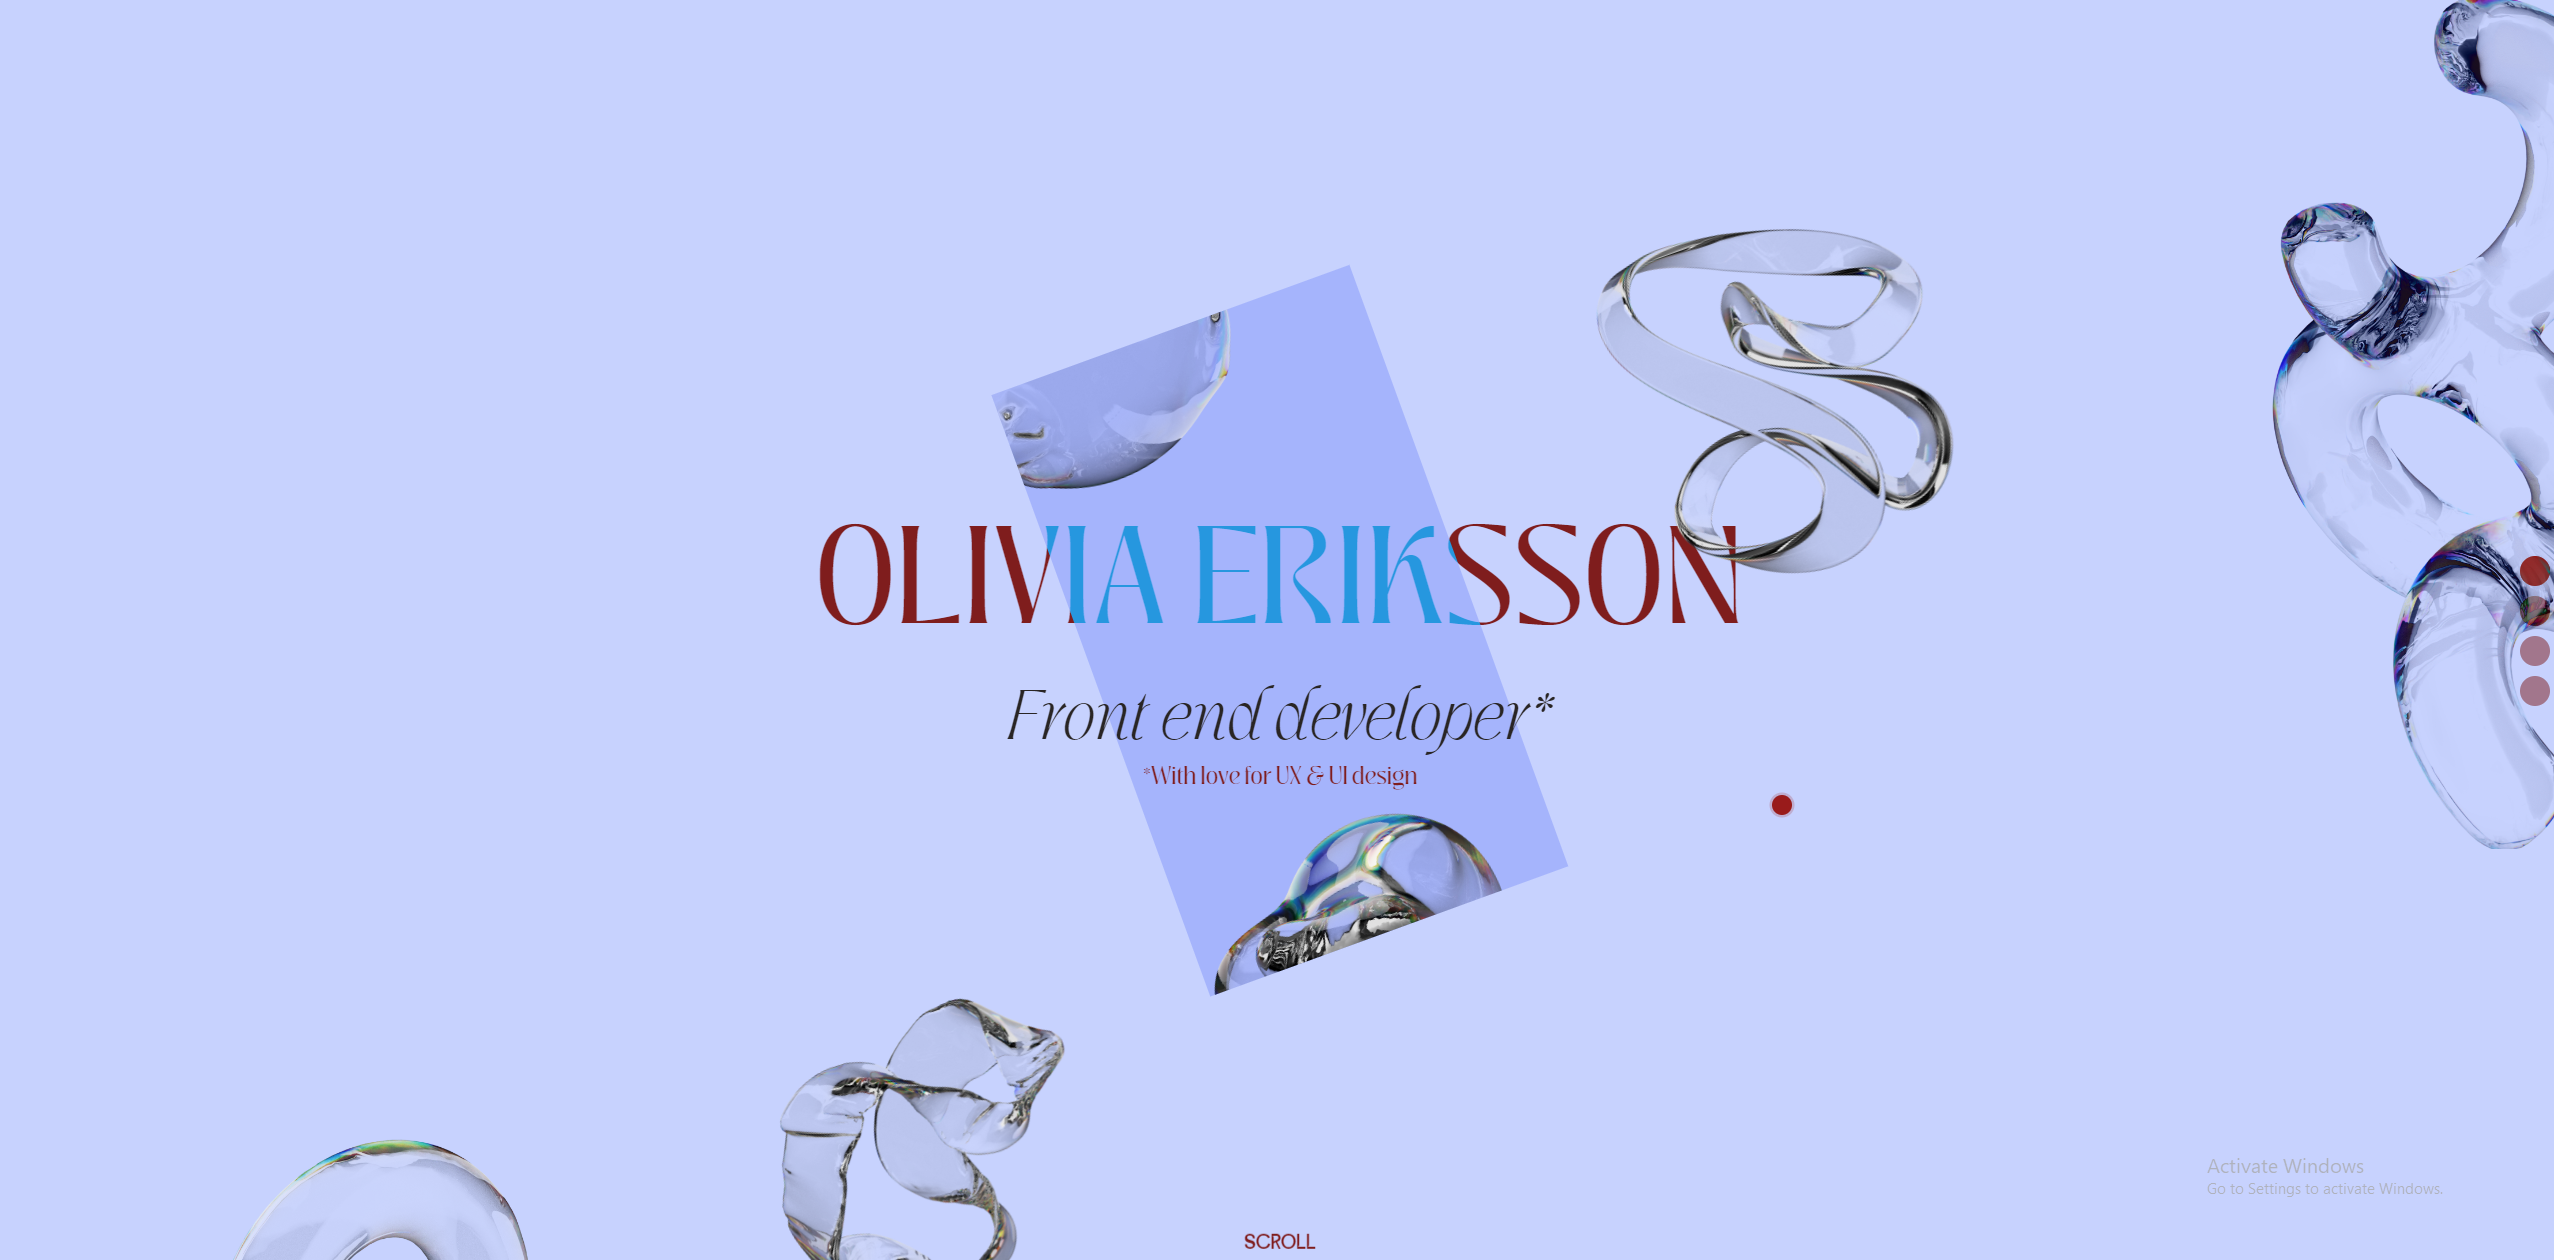
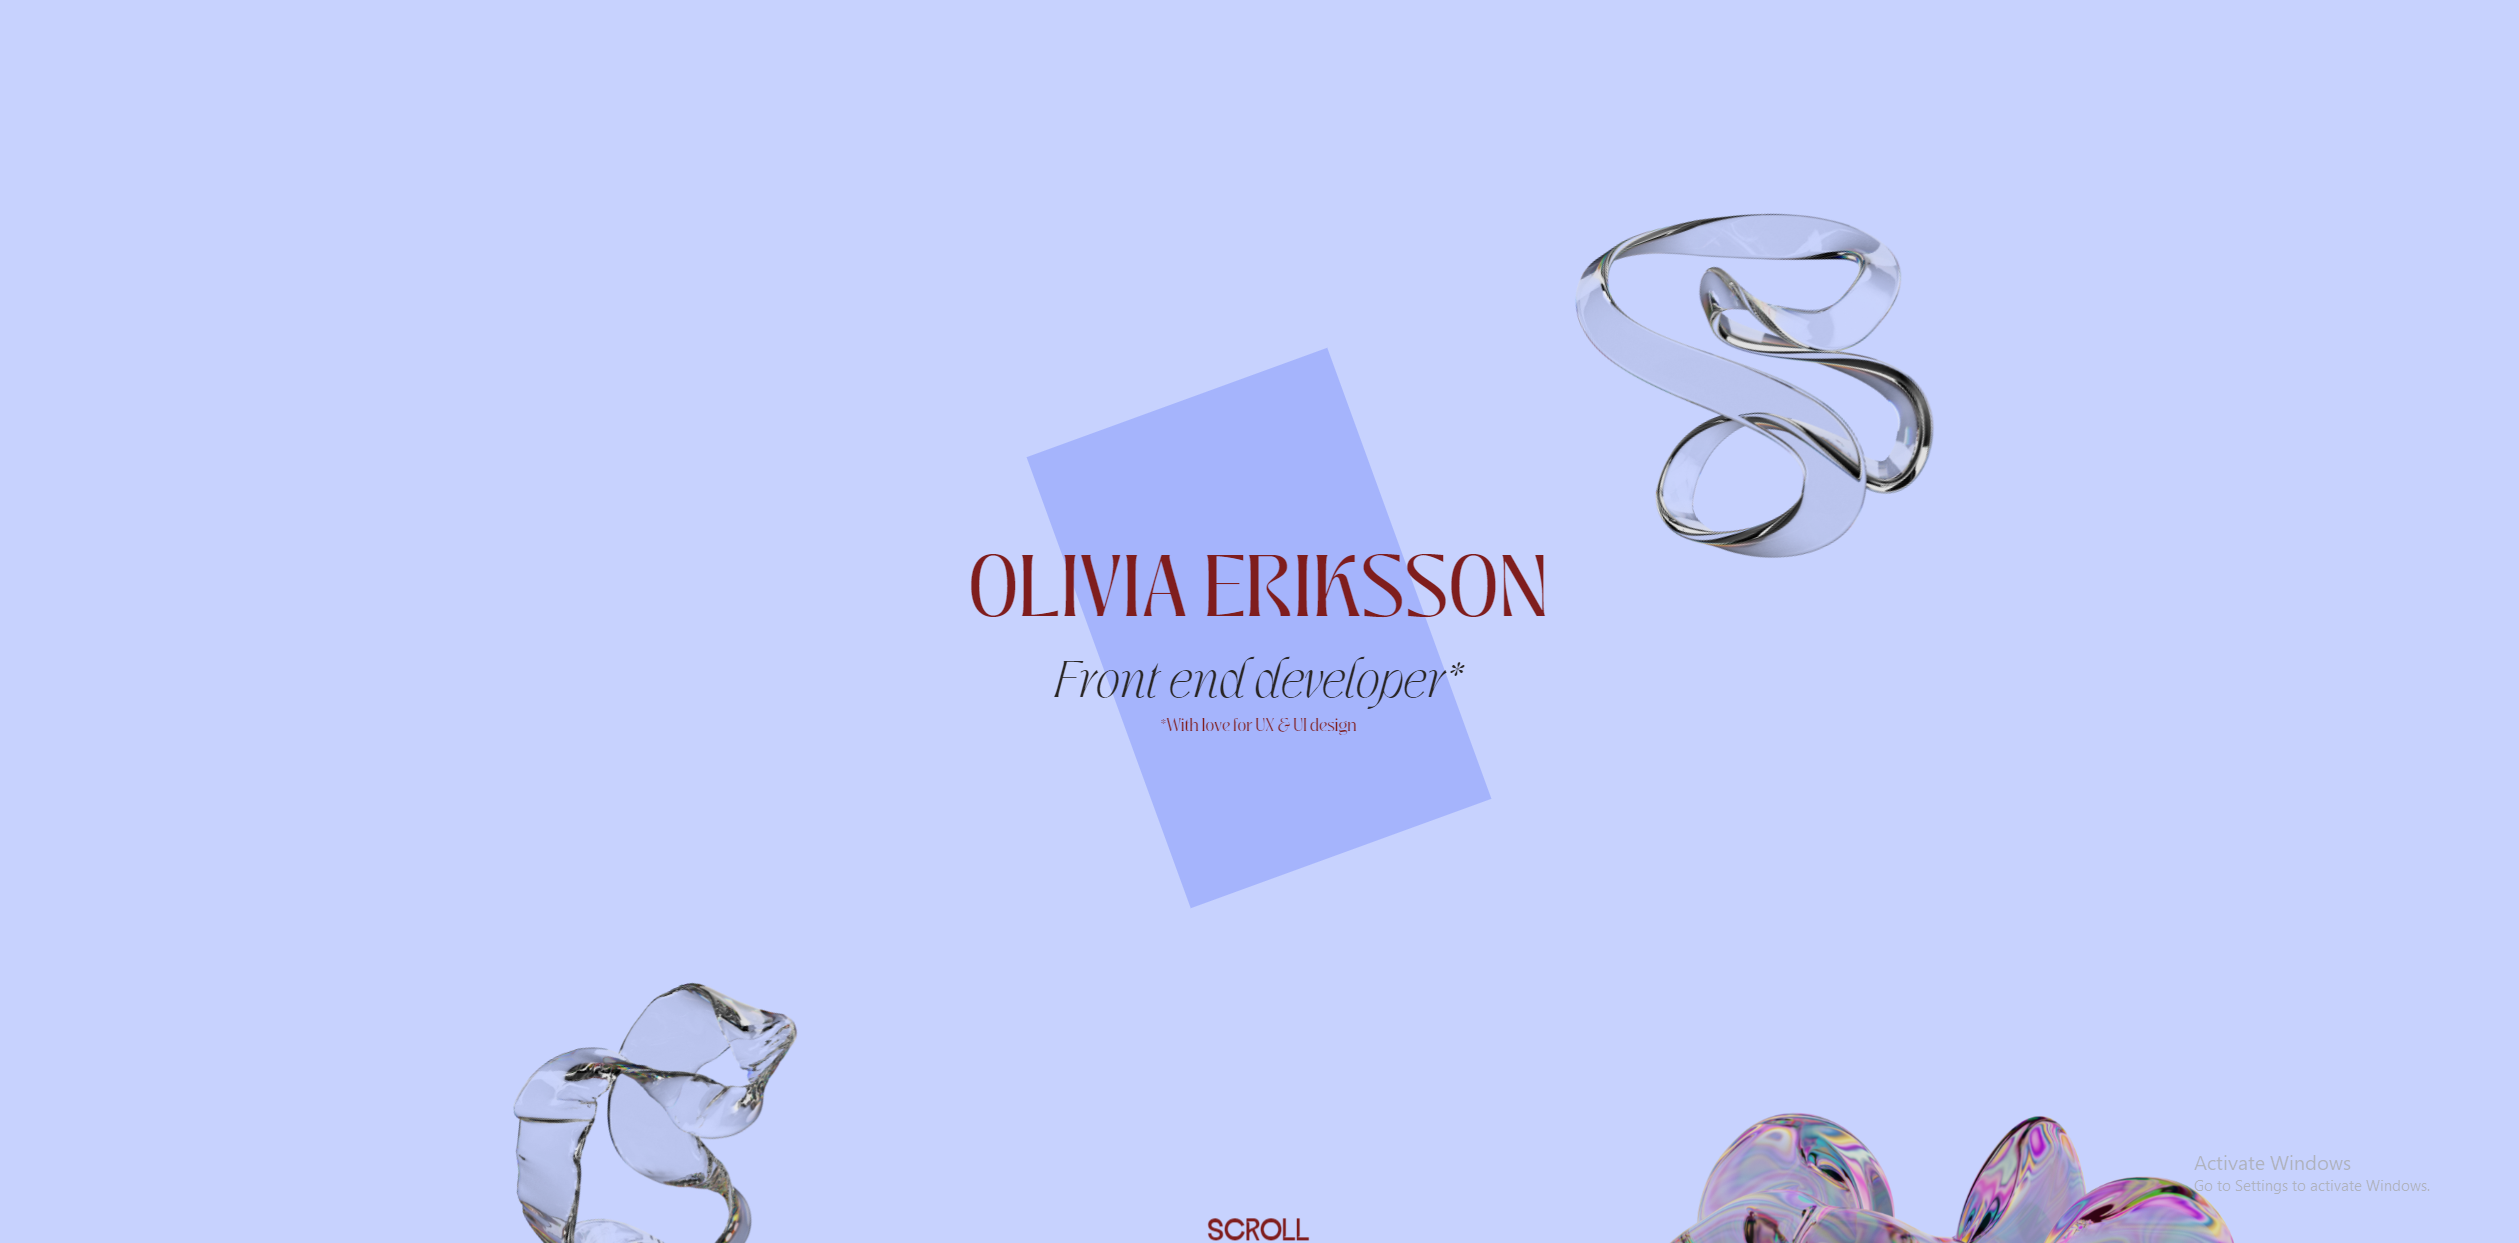
layout fixes

diff --git a/src/pages/Home.jsx b/src/pages/Home.jsx
@@ -6,7 +6,6 @@ import Portfolio from "../components/Portfolio";
 import Contact from "../components/Contact";
 import e3 from "../assets/images/element05.png";
 import e2 from "../assets/images/element08.png";
-import e1 from "../assets/images/element03.png";
 
 function Home() {
   const container = useRef(null);
@@ -48,49 +47,43 @@ function Home() {
   const contactOpacity = useTransform(scrollYProgress, [0.85, 1], [0.5, 1]); // Opacity animation
 
   return (
-    <motion.div ref={container} style={{ backgroundColor }} className="main">
-      {/* First Section (Circle Animation) */}{" "}
+    <motion.div ref={container} style={{ backgroundColor }}>
+      {/* First Section (Circle Animation) */}
       <motion.div
-        className="fixed top-0 left-0 w-full h-screen flex justify-center items-center"
+        className="z-10 fixed top-0 left-0 w-full h-screen flex justify-center items-center  "
         style={{ scale, opacity }}
       >
         <motion.div
-          className="bg-indigo-300"
-          style={{
-            width: "20rem",
-            height: "30rem",
-            rotate: "-20deg",
-          }}
+          className="bg-indigo-300 w-[10rem] md:w-[20rem] h-[15rem] md:h-[30rem]"
+          style={{ rotate: "-20deg" }}
         />
       </motion.div>
-      {/* Main Content */}{" "}
+      {/* Main Content */}
       <motion.div className="h-screen flex justify-center items-center">
         <Hero />{" "}
         <img
           src={e3}
-          alt="Decorative element floating animation"
-          className="z-0 absolute w-[15rem] md:w-[50rem] object-contain top-[20%] md:top-[80%] left-[0%] md:left-[60%]"
+          alt="Decorative element floating animation "
+          className=" z-0 absolute w-[50rem] object-contain  top-[15%]  "
           style={{
-            animation: "float 3s ease-in-out infinite", // Adjust the duration and easing as needed
+            animation: "float 3s ease-in-out infinite",
           }}
         />
       </motion.div>
-      {/* Scrollable Section with scaling effect */}
       <motion.div
         className="h-screen flex justify-center items-center"
         style={{ scale: aboutScale }}
       >
-        <About />{" "}
+        <About />
         <img
           src={e2}
           alt="Decorative element floating animation"
-          className="z-0 absolute w-[10rem] md:w-[20rem] object-contain top-[20%] md:top-[80%] right-[0%] md:right-[80%]"
+          className="hidden md:block z-0 absolute w-[10rem] md:w-[20rem] object-contain md:top-[70%] right-[0%] md:right-[80%]"
           style={{
-            animation: "float 3s ease-in-out infinite", // Adjust the duration and easing as needed
+            animation: "float 3s ease-in-out infinite",
           }}
         />
       </motion.div>
-      {/* Additional Sections with scaling effect */}
       <motion.div
         className="h-screen flex justify-center items-center"
         style={{ scale: portfolioScale }}
@@ -106,7 +99,7 @@ function Home() {
           opacity: contactOpacity,
         }}
       >
-        <Contact />{" "}
+        <Contact />
       </motion.div>
     </motion.div>
   );

diff --git a/src/components/About.jsx b/src/components/About.jsx
@@ -17,18 +17,18 @@ function About() {
           Currently
         </h1>
       </header>
-      <p className="font-text text-[1em] md:text-[1.4em] w-[90%] md:w-[60%] lg:w-[40%]">
+      <p className="font-text text-[1.2em] md:text-[1.4em] w-[90%] md:w-[60%] lg:w-[40%]">
         Self-taught frontend developer (almost*) with a passion for UI, UX and
         design. Creating web applications using JavaScript, Reactjs, CSS & HTML.
         I also sometimes build mobile applications using React Native. I love
         and am eager to learn new parts of coding and am currently{" "}
         <strong>looking for a trainee-position.</strong>
       </p>
-      <p className="italic text-end font-text text-[1.1em] md:text-[1.4em] text-rose-400">
+      <p className="italic text-end font-text text-[1.1em] md:text-[1.4em] text-rose-500">
         *With a front-end certificate degree from META.
       </p>
       <div
-        className="flex flex-row gap-3 mt-[0.5rem]"
+        className="flex flex-row gap-3 mt-[0.5rem] mb-[1rem]"
         aria-label="Technologies"
       >
         <FaJs size={50} aria-label="JavaScript" />
@@ -36,14 +36,13 @@ function About() {
         <FaCss3Alt size={50} aria-label="CSS3" />
         <FaReact size={50} aria-label="React" />
         <SiTailwindcss size={50} aria-label="Tailwind CSS" />
-        <FaBootstrap size={50} aria-label="Bootstrap" />
       </div>
       <header>
         <h1 className="font-header text-[2em] md:text-[3em] lg:text-[4em]">
           Past
         </h1>
       </header>
-      <p className="font-text text-[1em] md:text-[1.4em] w-[90%] md:w-[60%] lg:w-[40%]">
+      <p className="font-text text-[1.2em] md:text-[1.4em] w-[90%] md:w-[60%] lg:w-[40%]">
         Coming from a long background in film I have experience in creative
         directing, cinematography, post-production and graphic design. I also
         ran a commercial production company for 3 years before deciding to

diff --git a/src/components/Hero.jsx b/src/components/Hero.jsx
@@ -47,11 +47,11 @@ function Hero() {
   };
 
   return (
-    <section className="z-30 flex flex-col justify-center items-center">
+    <section className=" flex flex-col justify-center items-center ">
       <img
         src={e3}
         alt="Decorative element 3"
-        className="z-30 absolute w-[10rem] md:w-[15rem] lg:w-[20rem] object-contain top-[0%] md:top-[17%] right-[0%] md:right-[24%]"
+        className="z-10  absolute w-[10rem] md:w-[15rem] lg:w-[20rem] object-contain top-[0%] md:top-[10%] left-[60%] md:left-[60%] "
         style={{
           transform: moveEffect(mousePosition.x, mousePosition.y, -20, "e1"),
         }}
@@ -59,18 +59,19 @@ function Hero() {
       <img
         src={e4}
         alt="Decorative element 4"
-        className="absolute w-[10rem] md:w-[15rem] lg:w-[20rem] object-contain top-[80%] left-[20%]"
+        className="absolute  w-[10rem] md:w-[15rem] lg:w-[20rem] object-contain top-[80%] left-[20%]"
         style={{
           transform: moveEffect(mousePosition.x, mousePosition.y, -20, "e1"),
         }}
       />
-      <h1 className=" text-center font-header text-[2.5em] md:text-[3em] lg:text-[5em] text-red-900 mix-blend-exclusion ">
+
+      <h1 className=" z-10 text-center font-header text-[2.5em] md:text-[3em] lg:text-[5em] text-red-900  ">
         OLIVIA ERIKSSON
       </h1>
-      <h1 className="font-subheader text-[1.8em] md:text-[2em] lg:text-[3em] text-stone-800 text-center">
+      <h1 className="z-10 font-subheader text-[1.8em] md:text-[2em] lg:text-[3em] text-stone-800 text-center">
         Front end developer*
       </h1>
-      <h1 className="font-header text-[1em] text-red-900">
+      <h1 className="z-10 font-header text-[1em] text-red-900 ">
         *With love for UX & UI design
       </h1>
       <h1 className="animate-bounce absolute bottom-0 font-text text-[2em] text-red-900">

diff --git a/src/App.css b/src/App.css
@@ -1,3 +1,5 @@
+/* App.css */
+
 @font-face {
   font-family: "Quity";
   src: url("../src/assets/fonts/Quity.ttf");
@@ -17,26 +19,27 @@
     transform: translateY(0);
   }
   50% {
-    transform: translateY(-10px); /* Adjust the distance of the float */
+    transform: translateY(-10px);
   }
   100% {
     transform: translateY(0);
   }
 }
 
-.main {
-  /* Hide scrollbars */
-  overflow: hidden;
-
-  /* Optional: To allow content to overflow without showing scrollbars */
-  overflow-x: hidden;
-  overflow-y: hidden;
-
-  /* For Webkit-based browsers (Chrome, Safari) */
-  -ms-overflow-style: none; /* IE and Edge */
-  scrollbar-width: none; /* Firefox */
+/* Custom Scrollbar Styles */
+::-webkit-scrollbar {
+  width: 12px;
 }
 
-.main::-webkit-scrollbar {
-  display: none; /* Chrome, Safari, and Opera */
+::-webkit-scrollbar-track {
+  background: #e7e5e4;
+}
+
+::-webkit-scrollbar-thumb {
+  background: #991b1b;
+  border-radius: 10px;
+}
+
+::-webkit-scrollbar-thumb:hover {
+  background: #7f1d1d;
 }

diff --git a/src/components/Portfolio.jsx b/src/components/Portfolio.jsx
@@ -22,7 +22,7 @@ function Portfolio() {
       title: "Nemen",
       description:
         "A video production company site - made with Reactjs and Tailwind.",
-      githubLink: "https://github.com/Olivia1337/nemen.git",
+      githubLink: "https://github.com/Olivia1337/nemensthlm.git",
       liveLink: "https://nemen.vercel.app/",
     },
     {
@@ -40,7 +40,7 @@ function Portfolio() {
       title: "Portfolio",
       description:
         "The webpage you're currently on - made with Reactjs and Tailwind.",
-      githubLink: "https://github.com/Olivia1337/strike_first.git",
+      githubLink: "https://github.com/Olivia1337/portfolio.git",
       liveLink: "https://olivia-eriksson-portfolio.vercel.app/",
     },
   ];
